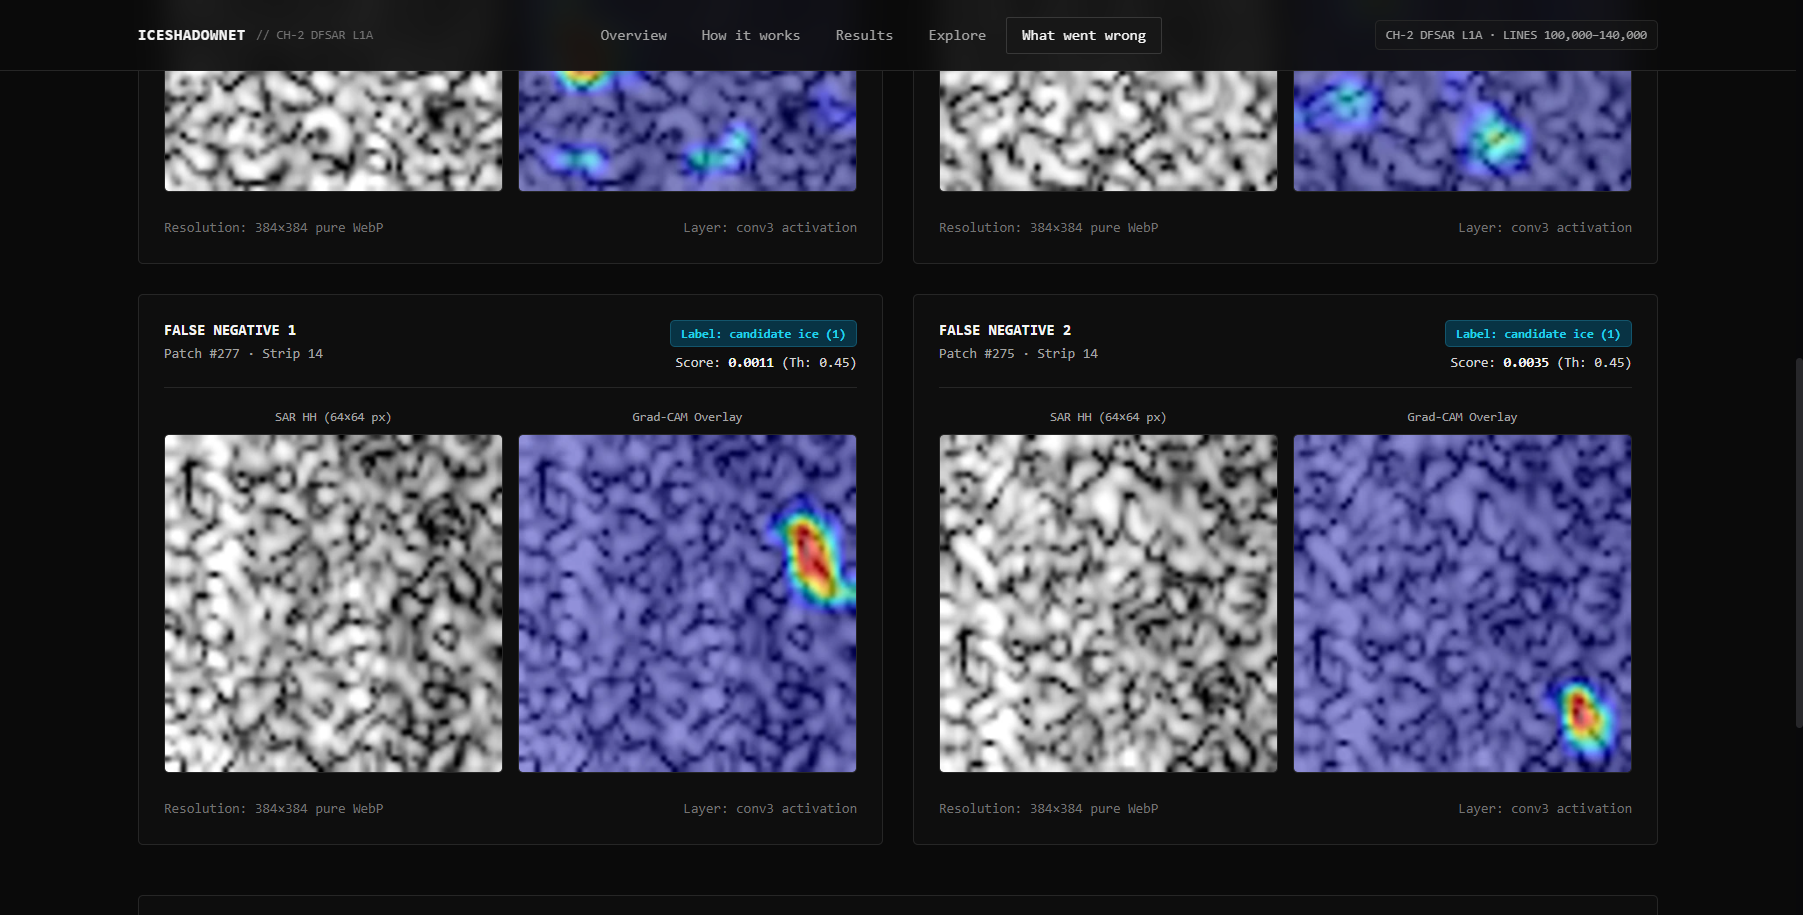
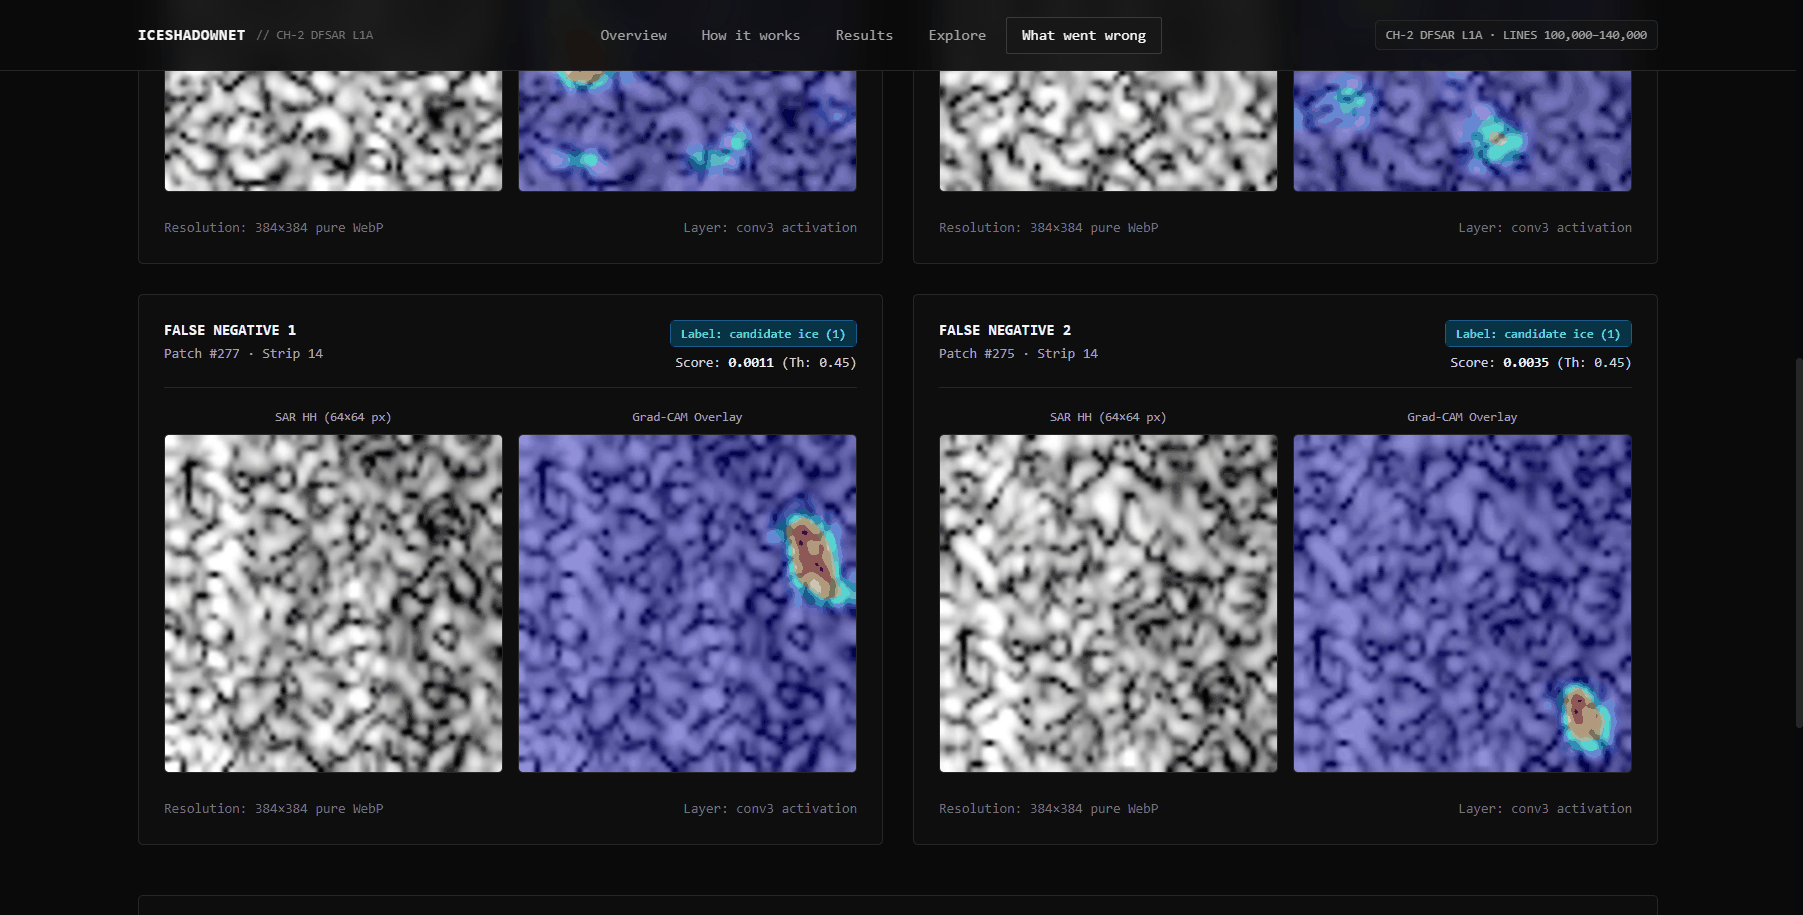
chore: prune unused images and add repo image guard

diff --git a/scripts/check_repo_images.py b/scripts/check_repo_images.py
@@ -1,0 +1,123 @@
+#!/usr/bin/env python3
+"""
+Repository hygiene guard for tracked images and binary assets.
+Standard library only.
+
+Fails if:
+1. Any tracked file has a forbidden extension: *.pth, *.npz, *.tif, *.tiff, *.zip
+2. Any tracked image is outside allowed directories:
+   - dashboard/public/data/
+   - reports/real/figures/
+   - dashboard/docs/screenshots/
+3. Any single tracked image exceeds 500 KB (500 * 1024 bytes).
+4. Total size of all tracked images exceeds 20 MB (20 * 1024 * 1024 bytes).
+"""
+
+import os
+import sys
+import subprocess
+from pathlib import Path
+
+IMAGE_EXTENSIONS = {'.png', '.jpg', '.jpeg', '.webp', '.gif', '.svg', '.ico', '.bmp', '.tif', '.tiff'}
+FORBIDDEN_EXTENSIONS = {'.pth', '.npz', '.tif', '.tiff', '.zip'}
+
+ALLOWED_DIRECTORIES = [
+    'dashboard/public/data/',
+    'reports/real/figures/',
+    'dashboard/docs/screenshots/'
+]
+
+MAX_SINGLE_IMAGE_BYTES = 500 * 1024       # 500 KB
+MAX_TOTAL_IMAGE_BYTES = 20 * 1024 * 1024  # 20 MB
+
+
+def main():
+    try:
+        output = subprocess.check_output(['git', 'ls-files'], text=True)
+    except Exception as e:
+        print(f"ERROR: Failed to run 'git ls-files': {e}", file=sys.stderr)
+        sys.exit(1)
+
+    tracked_files = [line.strip().replace('\\', '/') for line in output.strip().splitlines() if line.strip()]
+
+    errors = []
+
+    # 1. Check for forbidden binary extensions
+    forbidden_files = []
+    for f in tracked_files:
+        suffix = Path(f).suffix.lower()
+        if suffix in FORBIDDEN_EXTENSIONS:
+            forbidden_files.append(f)
+    if forbidden_files:
+        errors.append(
+            f"Found {len(forbidden_files)} tracked file(s) with forbidden extensions ({FORBIDDEN_EXTENSIONS}):\n"
+            + "\n".join(f"  - {f}" for f in forbidden_files)
+        )
+
+    # 2. Check tracked images
+    tracked_images = []
+    for f in tracked_files:
+        suffix = Path(f).suffix.lower()
+        if suffix in IMAGE_EXTENSIONS:
+            tracked_images.append(f)
+
+    # Directory constraint & single file size limit
+    outside_dir = []
+    oversized = []
+    total_image_bytes = 0
+
+    for img in tracked_images:
+        # Normalize path
+        norm_img = img.replace('\\', '/')
+        
+        # Check allowed directory
+        is_allowed_dir = any(norm_img.startswith(allowed) for allowed in ALLOWED_DIRECTORIES)
+        if not is_allowed_dir:
+            outside_dir.append(norm_img)
+
+        # Check file size on disk
+        if os.path.exists(norm_img):
+            sz = os.path.getsize(norm_img)
+            total_image_bytes += sz
+            if sz > MAX_SINGLE_IMAGE_BYTES:
+                oversized.append((norm_img, sz))
+        else:
+            errors.append(f"Tracked image not found on disk: {norm_img}")
+
+    if outside_dir:
+        errors.append(
+            f"Found {len(outside_dir)} tracked image(s) outside allowed directories ({ALLOWED_DIRECTORIES}):\n"
+            + "\n".join(f"  - {f}" for f in outside_dir)
+        )
+
+    if oversized:
+        errors.append(
+            f"Found {len(oversized)} tracked image(s) exceeding {MAX_SINGLE_IMAGE_BYTES / 1024:.0f} KB limit:\n"
+            + "\n".join(f"  - {f} ({sz / 1024:.1f} KB)" for f, sz in oversized)
+        )
+
+    if total_image_bytes > MAX_TOTAL_IMAGE_BYTES:
+        errors.append(
+            f"Total tracked image size {total_image_bytes / (1024 * 1024):.2f} MB exceeds {MAX_TOTAL_IMAGE_BYTES / (1024 * 1024):.0f} MB limit."
+        )
+
+    if errors:
+        print("=" * 60, file=sys.stderr)
+        print("CHECK_REPO_IMAGES GUARD FAILED:", file=sys.stderr)
+        print("=" * 60, file=sys.stderr)
+        for err in errors:
+            print(f"\n{err}", file=sys.stderr)
+        sys.exit(1)
+
+    print("=" * 60)
+    print("CHECK_REPO_IMAGES GUARD PASSED")
+    print("=" * 60)
+    print(f"Tracked images checked: {len(tracked_images)}")
+    print(f"Total image payload:    {total_image_bytes / 1024:.1f} KB ({total_image_bytes / (1024 * 1024):.2f} MB)")
+    print(f"Forbidden files found:  0")
+    print(f"Max file size observed: {max((os.path.getsize(f) for f in tracked_images), default=0) / 1024:.1f} KB (limit: 500 KB)")
+    sys.exit(0)
+
+
+if __name__ == '__main__':
+    main()
